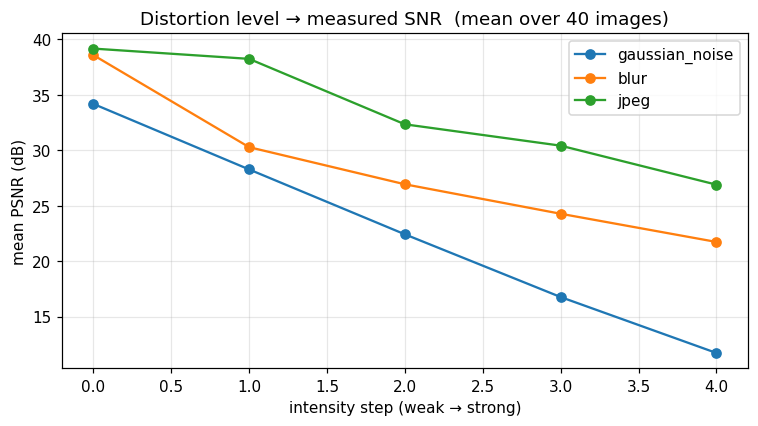
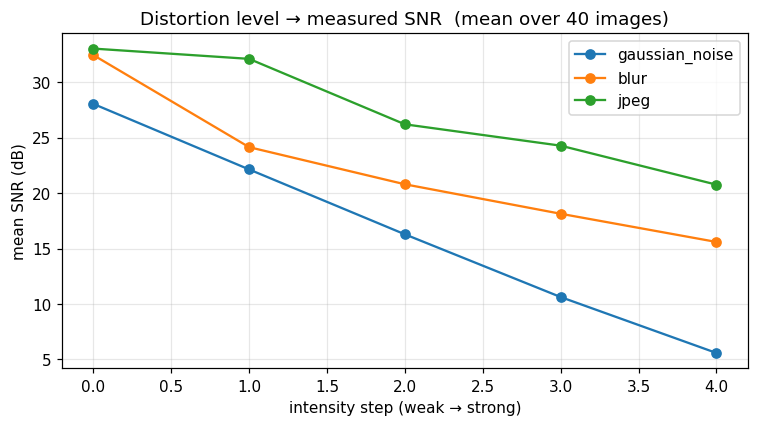
Add SNR axis alongside PSNR for the intensity sweep
- metrics.snr(): 10 log10(mean(clean^2)/MSE) — signal power / distortion power
- snr_table.py: report mean SNR (primary) + PSNR (reference) per level; SNR figure
- README: SNR as the primary dB axis (§2.1, §4 metric def, §9 table), PSNR shown alongside
  (constant ~+6.1 dB per-image offset; monotone re-scaling, no conclusion changes)
- deck slide 5 + SLIDES.md updated to SNR numbers

SNR ranges: noise 28.1->5.6 dB, blur 32.5->15.6 dB, jpeg 33.0->20.8 dB.

diff --git a/scripts/snr_table.py b/scripts/snr_table.py
@@ -1,8 +1,12 @@
-"""Quantify each distortion level as a measured SNR (PSNR in dB).
+"""Quantify each distortion level as a measured SNR (and PSNR) in dB.
 
 The brief asks for results "per SNR". Our distortions are parameterised by a knob
-(sigma / quality); this maps every knob value to the mean PSNR(clean, distorted) over a
-sample of images, so the intensity sweep has a physical SNR interpretation.
+(sigma / quality); this maps every knob value to the mean SNR and PSNR of (clean, distorted)
+over a seeded image sample, so the intensity sweep has a physical dB interpretation.
+
+SNR uses the image's own signal power (10 log10 mean(I^2)/MSE); PSNR fixes the numerator at
+the 255^2 peak. SNR is therefore a per-image offset below PSNR — a monotone re-scaling of the
+same fidelity axis, kept alongside for reference.
 
 Run:  python scripts/snr_table.py
 Outputs: results/snr_levels.csv, assets/snr_levels.png
@@ -22,7 +26,7 @@ sys.path.insert(0, str(ROOT))
 
 from src.data.pets import sample_pet_images  # noqa: E402
 from src.distortions import DISTORTIONS  # noqa: E402
-from src.metrics import psnr  # noqa: E402
+from src.metrics import psnr, snr  # noqa: E402
 from src.utils.seed import seed_everything  # noqa: E402
 
 ASSETS = ROOT / "assets"
@@ -33,25 +37,27 @@ def main(n_images: int = 40) -> None:
     results_dir = ROOT / "results"; results_dir.mkdir(exist_ok=True)
     cfg = yaml.safe_load((ROOT / "configs/default.yaml").read_text())
     seed_everything(cfg["data"]["seed"])
-    # Same seeded sample as run_keypoints.py, so SNR values describe the SIFT eval images.
+    # Same seeded sample as run_keypoints.py, so the dB values describe the SIFT eval images.
     imgs = sample_pet_images(root=str(ROOT / "data"), n=n_images)
 
     rows = []
     fig, ax = plt.subplots(figsize=(7, 4))
     for dname, (dist_fn, param) in DISTORTIONS.items():
         levels = cfg["distortions"][dname][param]
-        psnrs = []
+        snrs = []
         for level in levels:
-            vals = [psnr(im, dist_fn(im, level)) for im in imgs]
-            vals = [v for v in vals if np.isfinite(v)]
-            mean_psnr = float(np.mean(vals)) if vals else float("inf")
-            psnrs.append(mean_psnr)
+            pairs = [(im, dist_fn(im, level)) for im in imgs]
+            snr_vals = [snr(c, d) for c, d in pairs if np.isfinite(snr(c, d))]
+            psnr_vals = [psnr(c, d) for c, d in pairs if np.isfinite(psnr(c, d))]
+            mean_snr = float(np.mean(snr_vals)) if snr_vals else float("inf")
+            mean_psnr = float(np.mean(psnr_vals)) if psnr_vals else float("inf")
+            snrs.append(mean_snr)
             rows.append(dict(distortion=dname, param=param, level=level,
-                             mean_psnr_db=round(mean_psnr, 2)))
-        ax.plot(range(len(levels)), psnrs, marker="o", label=dname)
+                             mean_snr_db=round(mean_snr, 2), mean_psnr_db=round(mean_psnr, 2)))
+        ax.plot(range(len(levels)), snrs, marker="o", label=dname)
 
     ax.set_xlabel("intensity step (weak → strong)")
-    ax.set_ylabel("mean PSNR (dB)")
+    ax.set_ylabel("mean SNR (dB)")
     ax.set_title(f"Distortion level → measured SNR  (mean over {n_images} images)")
     ax.legend(); ax.grid(True, alpha=0.3)
     fig.tight_layout()

diff --git a/src/metrics/metrics.py b/src/metrics/metrics.py
@@ -27,6 +27,20 @@ def psnr(clean: np.ndarray, distorted: np.ndarray) -> float:
     return float("inf") if mse == 0 else float(10 * np.log10(255.0 ** 2 / mse))
 
 
+def snr(clean: np.ndarray, distorted: np.ndarray) -> float:
+    """Signal-to-noise ratio (dB): image signal power over distortion power.
+
+    SNR = 10 log10( mean(clean^2) / MSE ). Unlike PSNR (numerator fixed at the 255^2 peak),
+    SNR uses the image's actual mean-square energy, so it accounts for how bright/energetic
+    the image is. For additive Gaussian noise MSE ≈ sigma^2 (before clipping), so this
+    approximates the classical input SNR = 10 log10(mean(I^2)/sigma^2).
+    """
+    clean = clean.astype(np.float64)
+    mse = np.mean((clean - distorted.astype(np.float64)) ** 2)
+    signal = np.mean(clean ** 2)
+    return float("inf") if mse == 0 else float(10 * np.log10(signal / mse))
+
+
 def mean_iou(pred_mask: np.ndarray, gt_mask: np.ndarray, num_classes: int = 2) -> float:
     """Segmentation: mean IoU across classes (per-image helper).
 

diff --git a/scripts/build_presentation.py b/scripts/build_presentation.py
@@ -165,8 +165,8 @@ figure(s, ASSETS / "eda_samples.png", top_in=3.1, bottom_in=6.9)
 # ---------------------------------------------------------------- Slide 5: distortions + SNR
 s = new_slide("Distortions and Measured SNR")
 bullets(s, [
-    "Each intensity level mapped to a physical SNR (mean PSNR over 40 images).",
-    "Noise: 34 → 12 dB   ·   Blur: 39 → 22 dB   ·   JPEG: 39 → 27 dB.",
+    "Each intensity level mapped to a physical SNR (mean over 40 images; PSNR ≈ +6 dB, reported alongside).",
+    "SNR:  Noise 28 → 6 dB   ·   Blur 32 → 16 dB   ·   JPEG 33 → 21 dB.",
     "Rows below: clean → weak → mid → strong → restored (matched cleaner).",
 ], Inches(0.6), Inches(1.4), Inches(12.1), Inches(1.6), size=16)
 figure(s, ASSETS / "distortion_grid.png", top_in=3.1, bottom_in=6.9)

diff --git a/src/metrics/__init__.py b/src/metrics/__init__.py
@@ -2,6 +2,7 @@ from .metrics import (
     top1_accuracy,
     per_class_accuracy,
     psnr,
+    snr,
     mean_iou,
     matching_score,
     repeatability_rate,
@@ -11,6 +12,7 @@ __all__ = [
     "top1_accuracy",
     "per_class_accuracy",
     "psnr",
+    "snr",
     "mean_iou",
     "matching_score",
     "repeatability_rate",

diff --git a/README.md b/README.md
@@ -16,7 +16,7 @@ We measure how three common image degradations — **Gaussian noise, blur, and J
 affect vision algorithms at two levels of abstraction: **low-level feature detection** (SIFT
 keypoints) and **high-level scene understanding** (breed classification with ResNet-50, semantic
 segmentation with DeepLabV3). Using the Oxford-IIIT Pet dataset, we sweep each distortion over
-multiple intensities (quantified as PSNR) and, for every condition, compare two recovery
+multiple intensities (quantified as SNR) and, for every condition, compare two recovery
 strategies: **classical pre-processing** (NLM denoising, unsharp deblurring, bilateral
 de-blocking) and **fine-tuning** the deep models on distorted data. The central question is
 whether cleaning the *image* or adapting the *model* recovers more task performance — and our
@@ -79,18 +79,18 @@ SIFT gets restoration only — it is a fixed algorithm with no weights to train.
 
 $$I'(x) = I(x) + n,\qquad n \sim \mathcal{N}(0,\sigma^2)$$
 
-Levels: $\sigma \in \{5,10,20,40,80\}$ (0–255 scale) → PSNR 34→12 dB. *Visual effect:* fine grain
+Levels: $\sigma \in \{5,10,20,40,80\}$ (0–255 scale) → SNR 28→6 dB. *Visual effect:* fine grain
 that buries texture and edges. *Matched restoration:* NLM denoising (§2.2).
 
 **Blur.** Convolution with a Gaussian kernel of width $\sigma$:
 
 $$I' = I * G_\sigma,\qquad G_\sigma(u,v)=\tfrac{1}{2\pi\sigma^2}e^{-(u^2+v^2)/2\sigma^2}$$
 
-Levels: $\sigma \in \{0.5,1,2,4,8\}$ → PSNR 39→22 dB. *Visual effect:* loss of high-frequency
+Levels: $\sigma \in \{0.5,1,2,4,8\}$ → SNR 32→16 dB. *Visual effect:* loss of high-frequency
 detail; defocus-like softening. *Matched restoration:* unsharp deblurring (§2.2).
 
 **JPEG.** Each 8×8 block is DCT-transformed and quantized at quality factor $Q$, then decoded.
-Levels: $Q \in \{90,70,50,30,10\}$ → PSNR 39→27 dB. *Visual effect:* blocking on 8×8 seams and
+Levels: $Q \in \{90,70,50,30,10\}$ → SNR 33→21 dB. *Visual effect:* blocking on 8×8 seams and
 ringing near edges. *Matched restoration:* bilateral de-blocking (§2.2).
 
 ### 2.2 Restoration methods (why it helps · trade-off)
@@ -175,7 +175,7 @@ val subset (~8 per breed) would be dominated by binomial noise.
 - **Repeatability:** fraction of clean keypoints with a distorted keypoint within $\tau=3$ px
   (distortions are non-geometric, so the correspondence is the identity).
 - **Matching ratio:** Lowe-ratio-passing matches / clean keypoints.
-- **PSNR** (quantifies each distortion level as SNR): $10\log_{10}\!\dfrac{255^2}{\mathrm{MSE}}$.
+- **SNR** (quantifies each distortion level in dB): $10\log_{10}\!\dfrac{\overline{I_\text{clean}^2}}{\mathrm{MSE}}$ — signal power over distortion power. **PSNR** $= 10\log_{10}\!\dfrac{255^2}{\mathrm{MSE}}$ is reported alongside; the two differ only by the per-image energy offset $10\log_{10}(\overline{I^2}/255^2)$, so SNR is a monotone re-scaling of the same fidelity axis.
 
 Outputs: result tables (per class + per intensity), degradation/recovery **curves**, and
 **before/after** image grids.
@@ -265,14 +265,15 @@ Generated by `scripts/make_distortion_grids.py`:
 
 ### Distortion intensity → measured SNR
 
-Each intensity knob maps to a physical SNR (mean PSNR over 40 images, `scripts/snr_table.py`),
-so the "per-SNR" sweep has a dB interpretation:
+Each intensity knob maps to a physical SNR (mean over 40 images, `scripts/snr_table.py`),
+so the "per-SNR" sweep has a dB interpretation. PSNR is shown alongside for reference — it is a
+constant per-image offset above SNR (here ≈ +6.1 dB), so it orders the levels identically:
 
-| Distortion | weak → strong (knob) | PSNR (dB), weak → strong |
-|---|---|---|
-| noise (σ) | 5 → 80 | 34.2 → 11.7 |
-| blur (σ) | 0.5 → 8 | 38.6 → 21.7 |
-| jpeg (q) | 90 → 10 | 39.2 → 26.9 |
+| Distortion | weak → strong (knob) | SNR (dB) | PSNR (dB) |
+|---|---|---|---|
+| noise (σ) | 5 → 80 | 28.1 → 5.6 | 34.2 → 11.7 |
+| blur (σ) | 0.5 → 8 | 32.5 → 15.6 | 38.6 → 21.7 |
+| jpeg (q) | 90 → 10 | 33.0 → 20.8 | 39.2 → 26.9 |
 
 ![SNR per level](assets/snr_levels.png)
 

diff --git a/docs/SLIDES.md b/docs/SLIDES.md
@@ -31,7 +31,7 @@ Yonatan Haba · [github.com/yonatan-gif/Image-Processing-Final-Project](https://
 - Figure: `assets/eda_samples.png`
 
 ## Slide 5 — Distortions and measured SNR
-- Each knob → measured PSNR (noise σ 5→80 = 34→12 dB; blur 0.5→8 = 39→22 dB; JPEG 90→10 = 39→27 dB).
+- Each knob → measured SNR (noise σ 5→80 = 28→6 dB; blur 0.5→8 = 32→16 dB; JPEG 90→10 = 33→21 dB); PSNR ≈ +6 dB, reported alongside.
 - Figures: `assets/distortion_grid.png`, `assets/snr_levels.png`
 
 ## Slide 6 — Method: experiment design